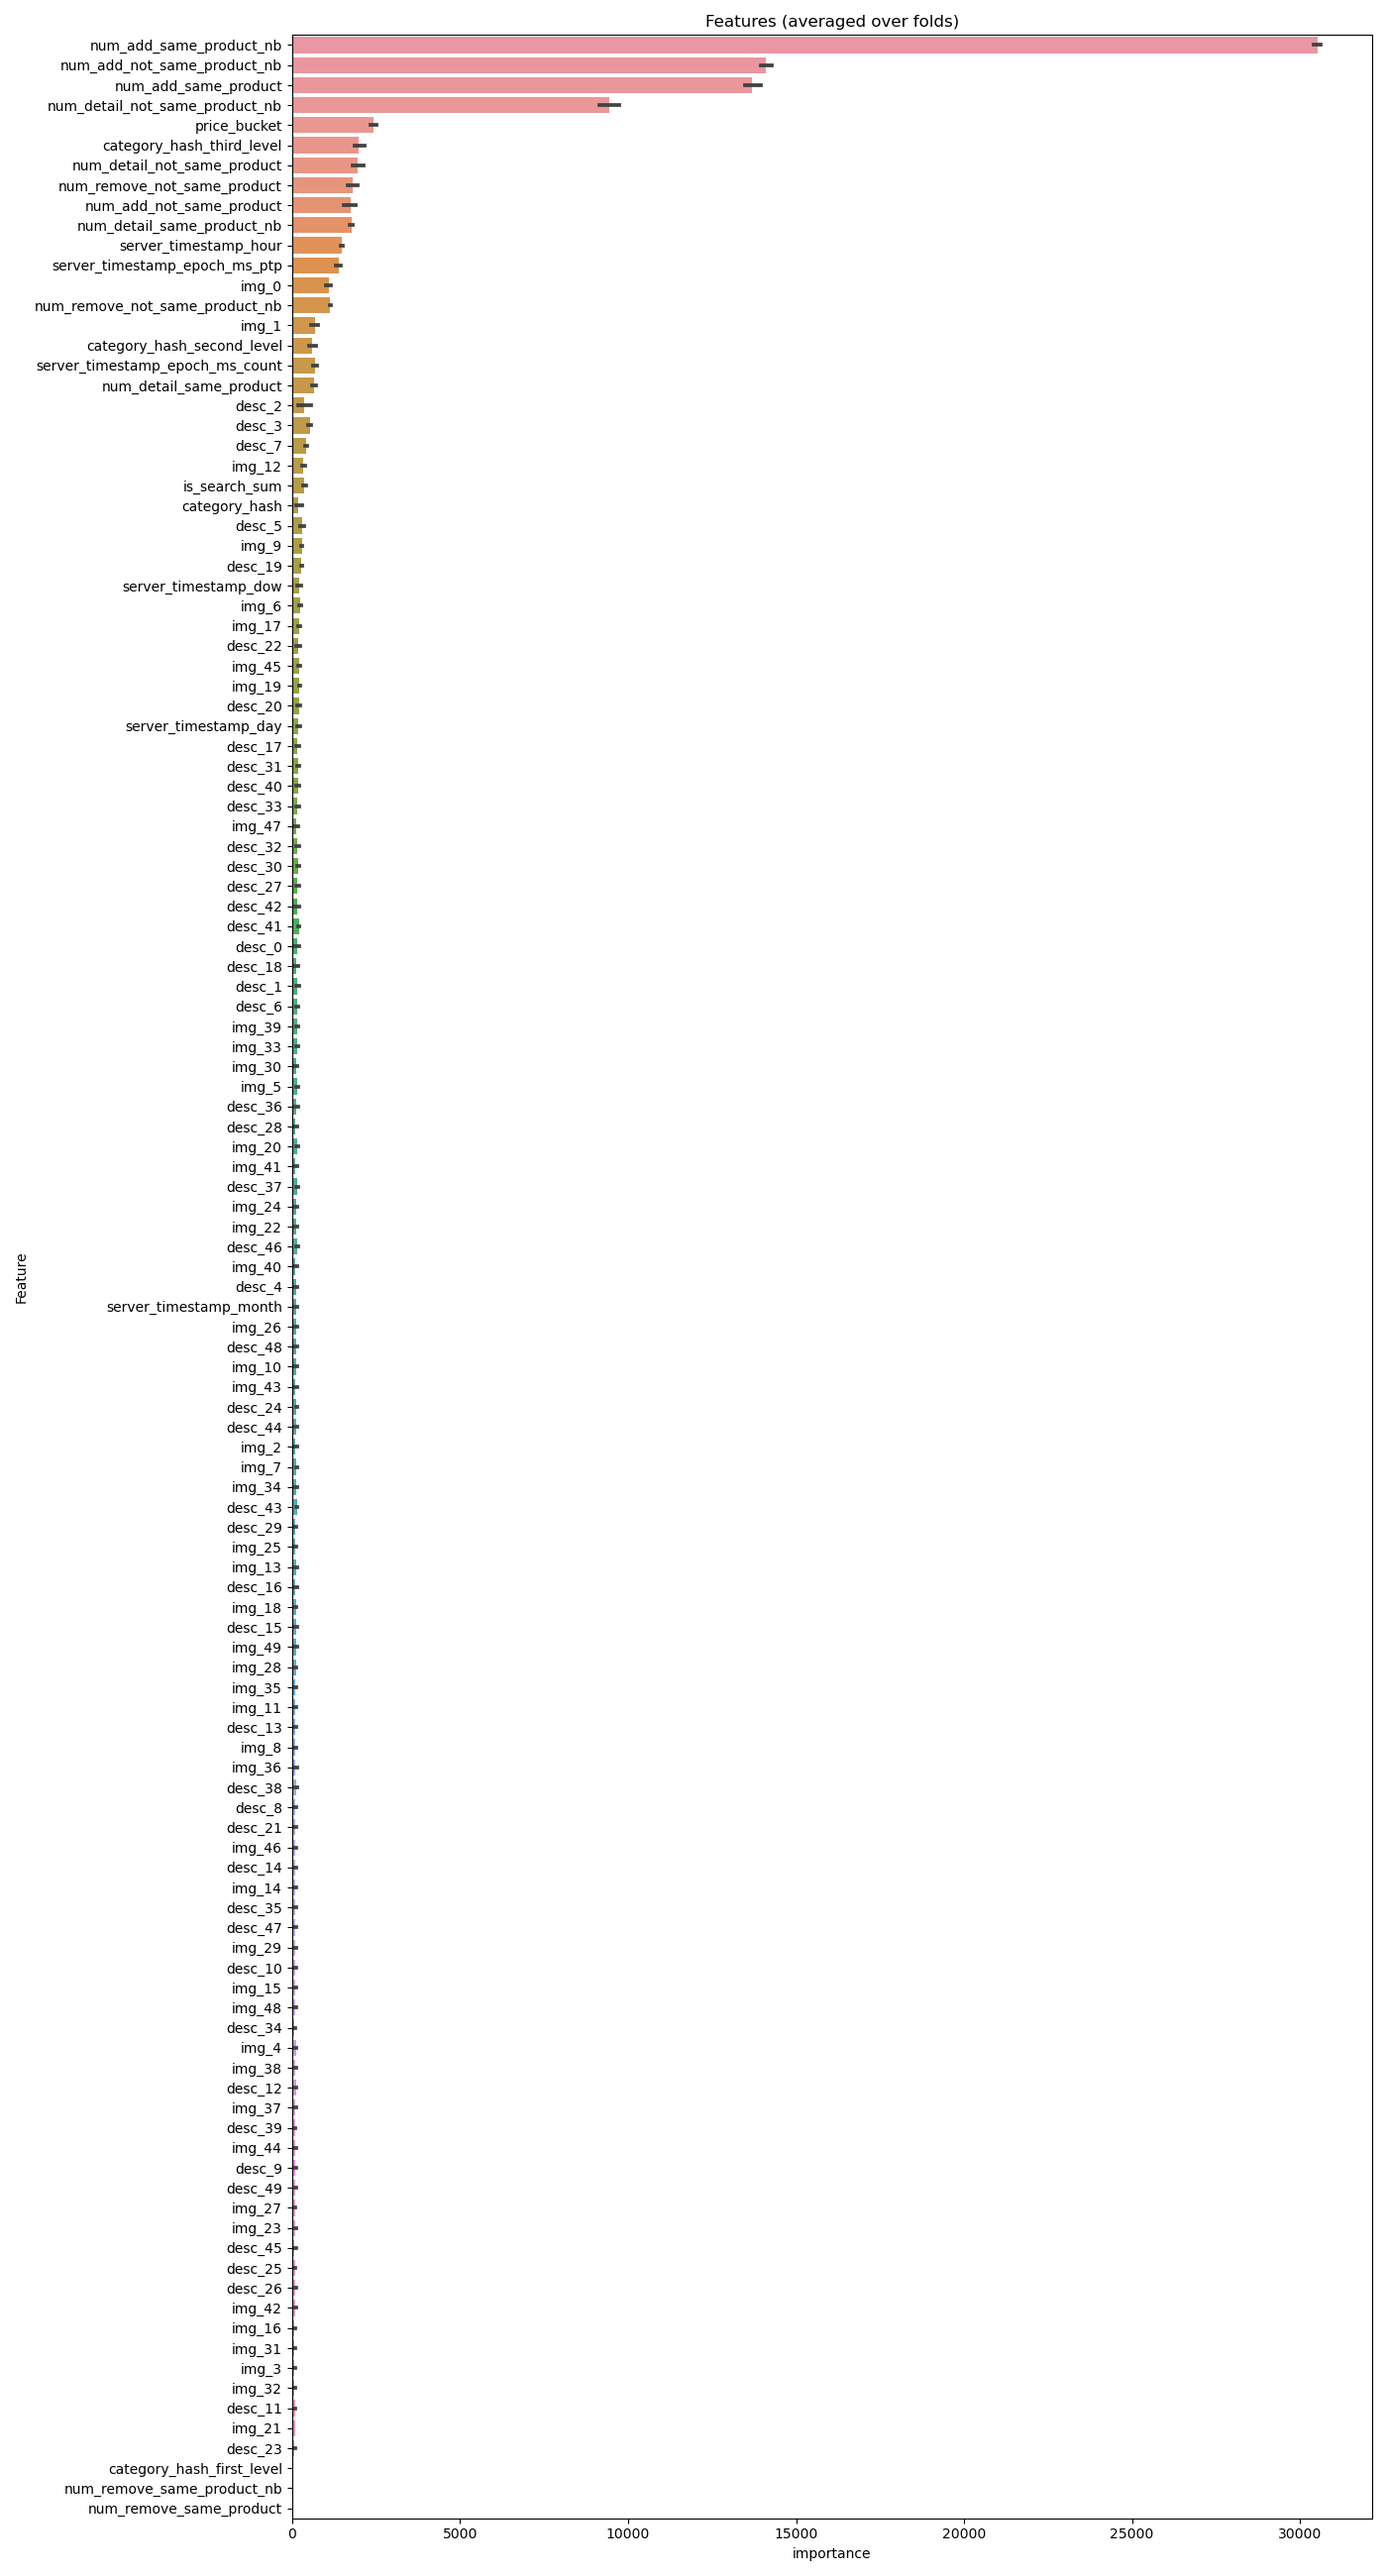
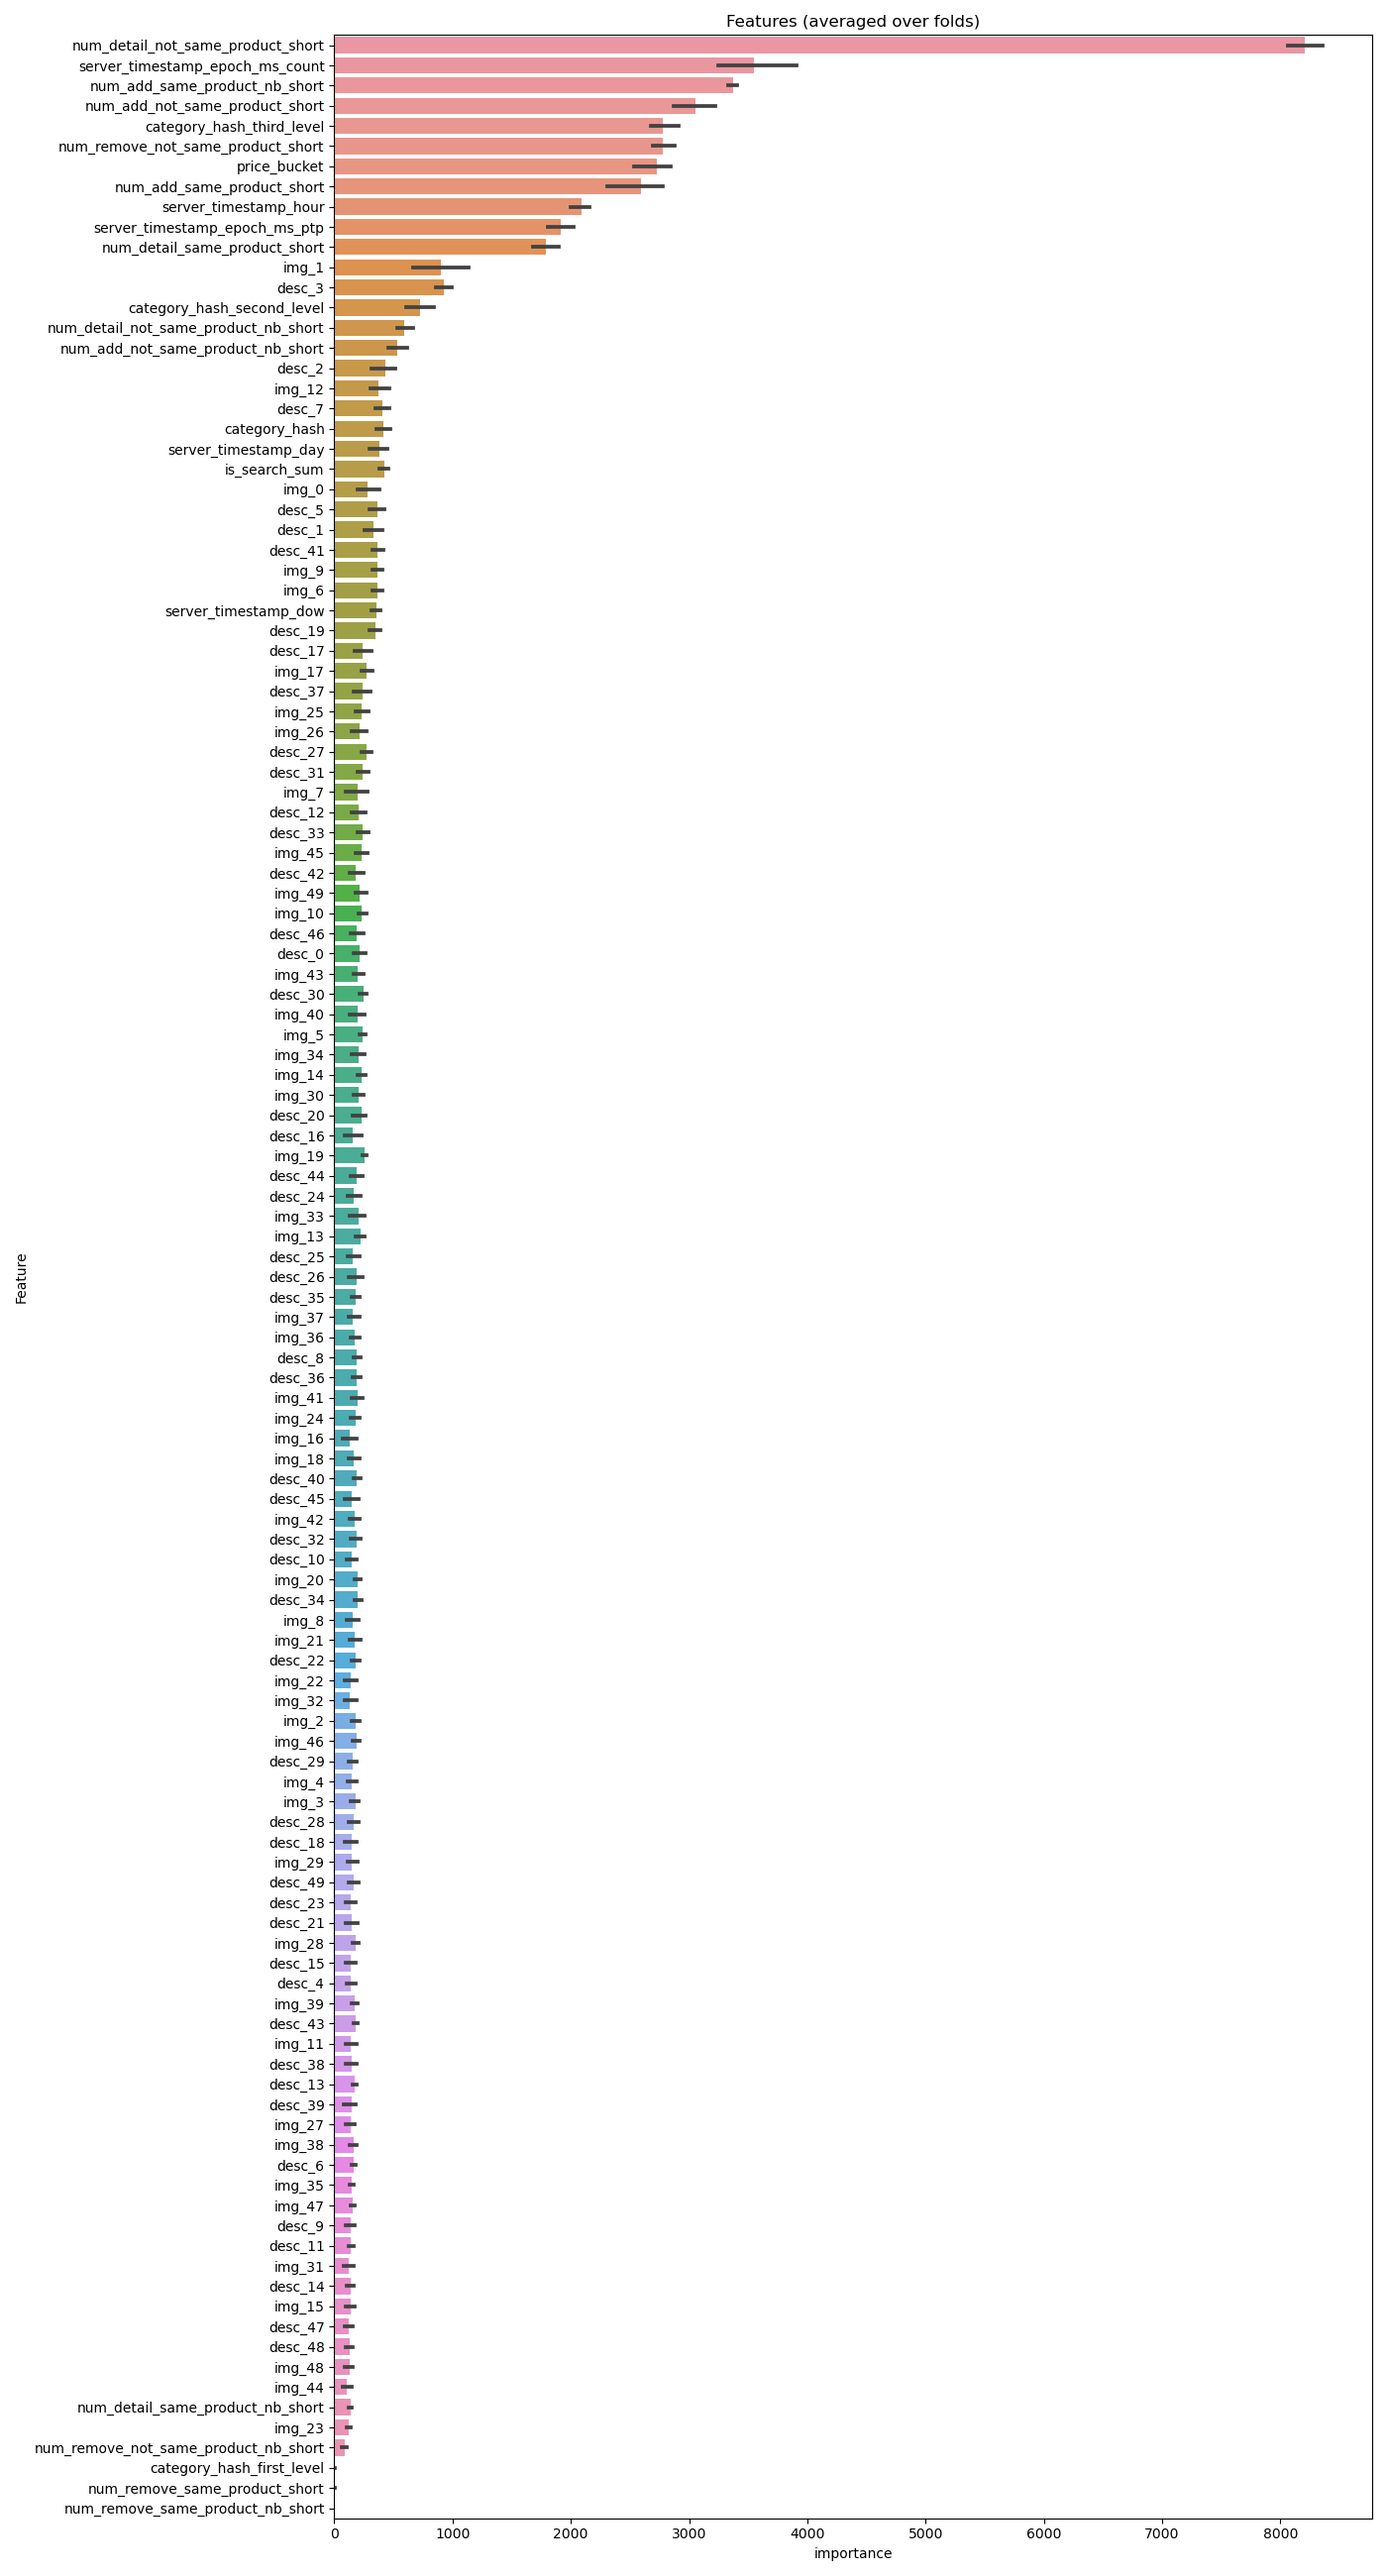
Add features

Changed region(s): [[0.0307, 0.0, 0.4914, 0.9969], [0.5221, 0.0, 0.5836, 0.0312], [0.5836, 0.9658, 0.6143, 0.9969]]

diff --git a/experiments/prepare_cart_Xy.py b/experiments/prepare_cart_Xy.py
@@ -12,8 +12,8 @@ from datasets import pickle_load
 def extract_product_action_count(df, nb):
     _df = df.copy()
     _df['target_product_sku_hash'] = _df['product_sku_hash_list'].map(lambda x: x[len(x) - nb - 1])
-    _df['product_action_list_nb'] = _df['product_action_list'].map(lambda x: x[len(x) - nb:])
-    _df['product_sku_hash_list_nb'] = _df['product_sku_hash_list'].map(lambda x: x[len(x) - nb:])
+    _df['product_action_list_nb'] = _df['product_action_list'].map(lambda x: x[-nb:])
+    _df['product_sku_hash_list_nb'] = _df['product_sku_hash_list'].map(lambda x: x[-nb:])
     _df['same_product_sku_hash'] = _df.apply(
         lambda x: [product is x['target_product_sku_hash'] for product in x['product_sku_hash_list'] if isinstance(product, str)],
         axis=1
@@ -75,12 +75,10 @@ def extract_product_action_count(df, nb):
 def extract_timestamp(df):
     _df = df.copy()
     _df = _df.groupby('session_id_hash')['server_timestamp'].max().reset_index()
-    _df['server_timestamp_month'] = _df['server_timestamp'].dt.month
     _df['server_timestamp_day'] = _df['server_timestamp'].dt.day
     _df['server_timestamp_dow'] = _df['server_timestamp'].dt.weekday
     _df['server_timestamp_hour'] = _df['server_timestamp'].dt.hour
     return _df[[
-        'server_timestamp_month',
         'server_timestamp_day',
         'server_timestamp_dow',
         'server_timestamp_hour'
@@ -96,17 +94,17 @@ def extract_product(X_train, X_test_nb, nb):
     _df['product_sku_hash'] = _df['product_sku_hash_list'].map(lambda x: x[len(x) - nb - 1])
     _df = pd.merge(_df['product_sku_hash'], sku_to_content, on='product_sku_hash', how='left')
     for c in ['category_hash',
-                  'category_hash_first_level',
-                  'category_hash_second_level',
-                  'category_hash_third_level']:
+              'category_hash_first_level',
+              'category_hash_second_level',
+              'category_hash_third_level']:
         le = preprocessing.LabelEncoder()
         _df[c] = le.fit_transform(_df[c].fillna('unkown'))
     _df = pd.concat([
         _df[['category_hash',
-              'category_hash_first_level',
-              'category_hash_second_level',
-              'category_hash_third_level',
-              'price_bucket']],
+             'category_hash_first_level',
+             'category_hash_second_level',
+             'category_hash_third_level',
+             'price_bucket']],
         pd.DataFrame(
             _df['description_vector'].map(lambda x: x if isinstance(x, list) else [0 for _ in range(50)]).to_list(),
             columns=[f'desc_{i}' for i in range(50)]
@@ -147,16 +145,29 @@ if __name__ == '__main__':
             'product_action': list
         }).reset_index(drop=True)
         X_train.columns = ["_".join(x) for x in X_train.columns.ravel()]
-        X_train = pd.concat([X_train, extract_product_action_count(X_train, nb)], axis=1)
+        # X_train = pd.concat([X_train, extract_product_action_count(X_train, nb)], axis=1)
         X_train = pd.concat([X_train, extract_timestamp(df_train)], axis=1)
 
         X_test_nb = X_test.query(f'nb_after_add_max=={nb}').reset_index(drop=True)
-        X_test_nb = pd.concat([X_test_nb, extract_product_action_count(X_test_nb, nb)], axis=1)
+        # X_test_nb = pd.concat([X_test_nb, extract_product_action_count(X_test_nb, nb)], axis=1)
         X_test_nb = pd.concat([X_test_nb, extract_timestamp(df_test.query(f'nb_after_add=={nb}'))], axis=1)
 
         _df = extract_product(X_train, X_test_nb, nb)
         X_train = pd.concat([X_train, _df[:len(X_train)].reset_index(drop=True)], axis=1)
         X_test_nb = pd.concat([X_test_nb, _df[len(X_train):].reset_index(drop=True)], axis=1)
+
+        X_train_old = Data.load(f'../session_rec_sigir_data/pickle/X_train_nb{nb}.pkl')
+        X_test_old = Data.load(f'../session_rec_sigir_data/pickle/X_test_nb{nb}.pkl')
+        if nb != 0:
+            X_train_old = X_train_old.iloc[:, -12:]
+            X_test_old = X_test_old.iloc[:, -12:]
+        else:
+            X_train_old = X_train_old.iloc[:, -6:]
+            X_test_old = X_test_old.iloc[:, -6:]
+        X_train_old.columns = [f'{c}_short' for c in X_train_old.columns]
+        X_test_old.columns = [f'{c}_short' for c in X_test_old.columns]
+        X_train = pd.concat([X_train, X_train_old], axis=1)
+        X_test_nb = pd.concat([X_test_nb, X_test_old], axis=1)
 
         Data.dump(X_train.drop(['product_sku_hash_list', 'product_action_list', 'label_max'], axis=1),
                   f'../input/pickle/X_train_nb{nb}.pkl')
@@ -170,6 +181,6 @@ if __name__ == '__main__':
             ], axis=1),
             f'../input/pickle/X_test_nb{nb}.pkl'
         )
-        sub = X_test_nb[['session_id_hash_']]
-        sub['label'] = np.nan
+        sub = X_test_nb[['session_id_hash_']].copy()
+        sub.loc[:, 'label'] = np.nan
         sub.to_csv(f'../session_rec_sigir_data/prepared/sample_submission_nb{nb}.csv', index=False)
